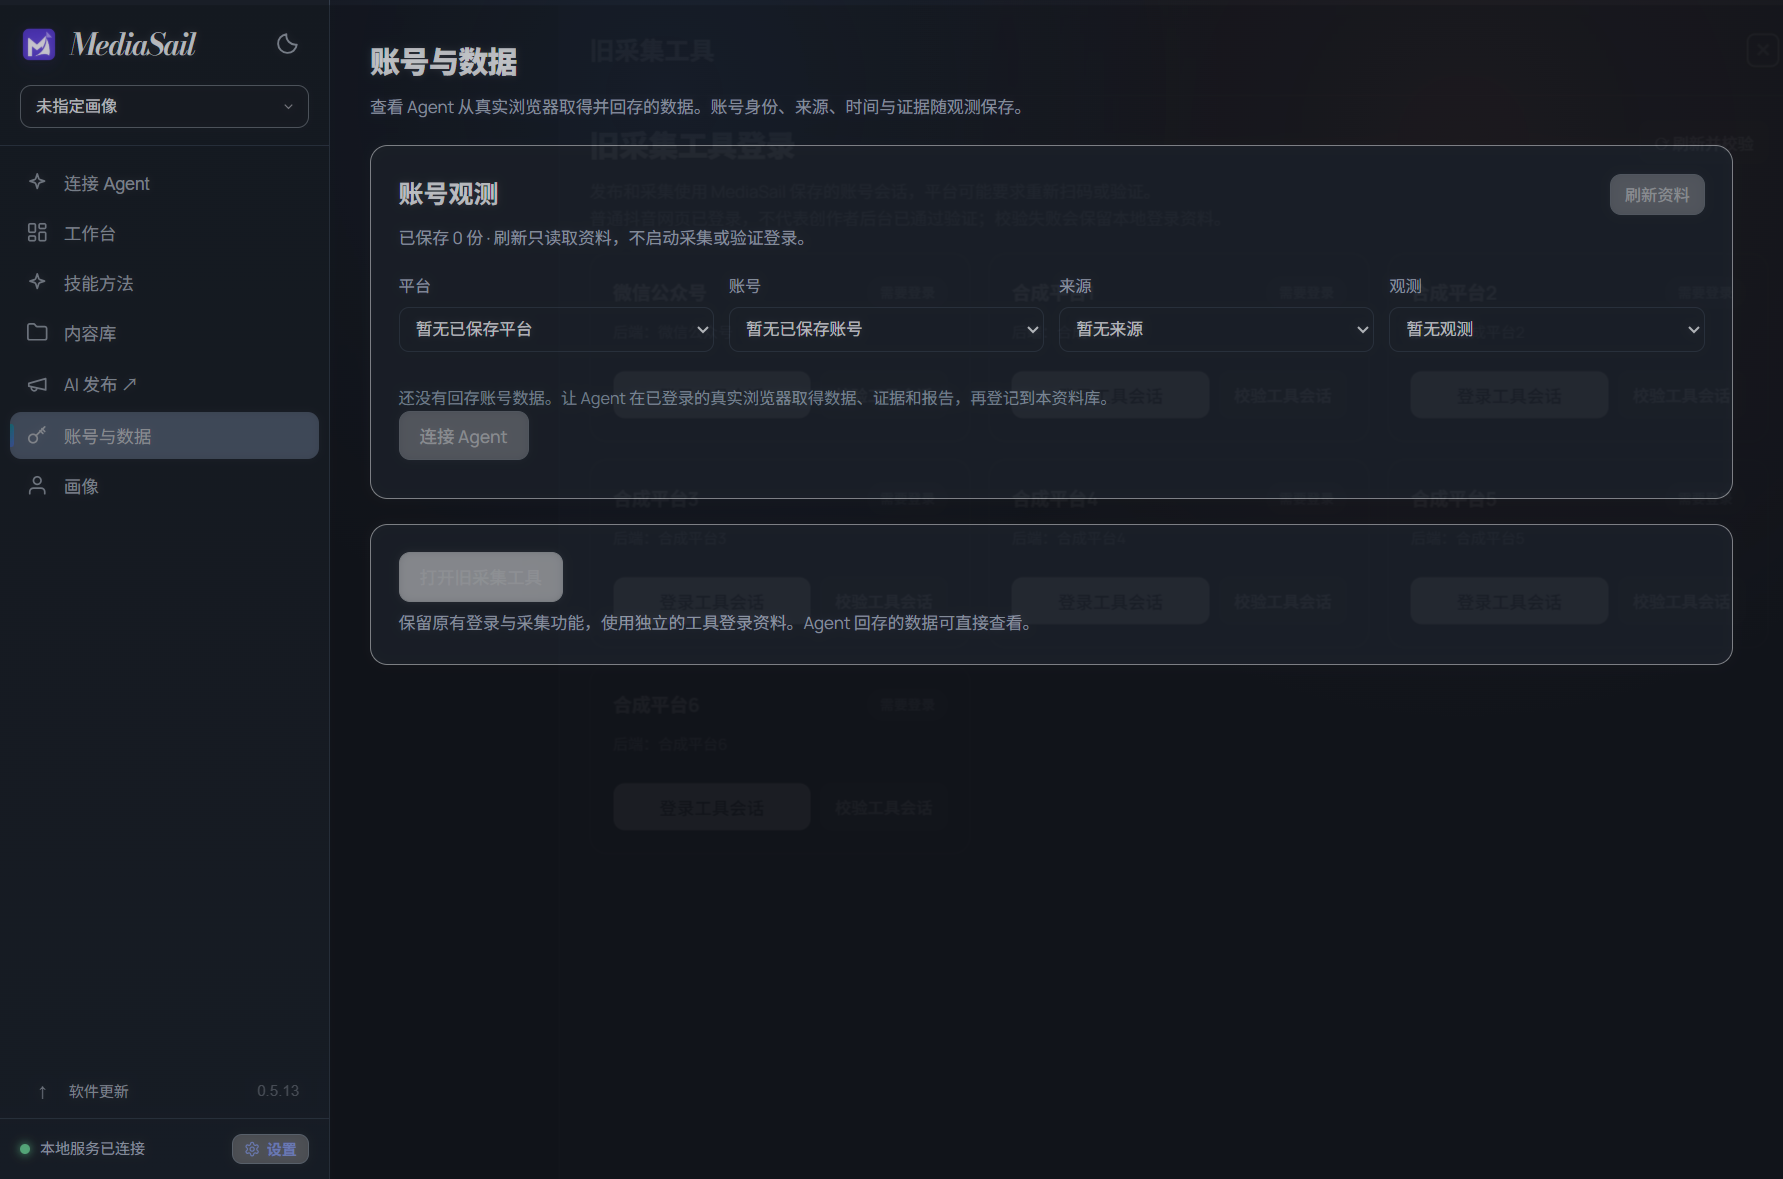
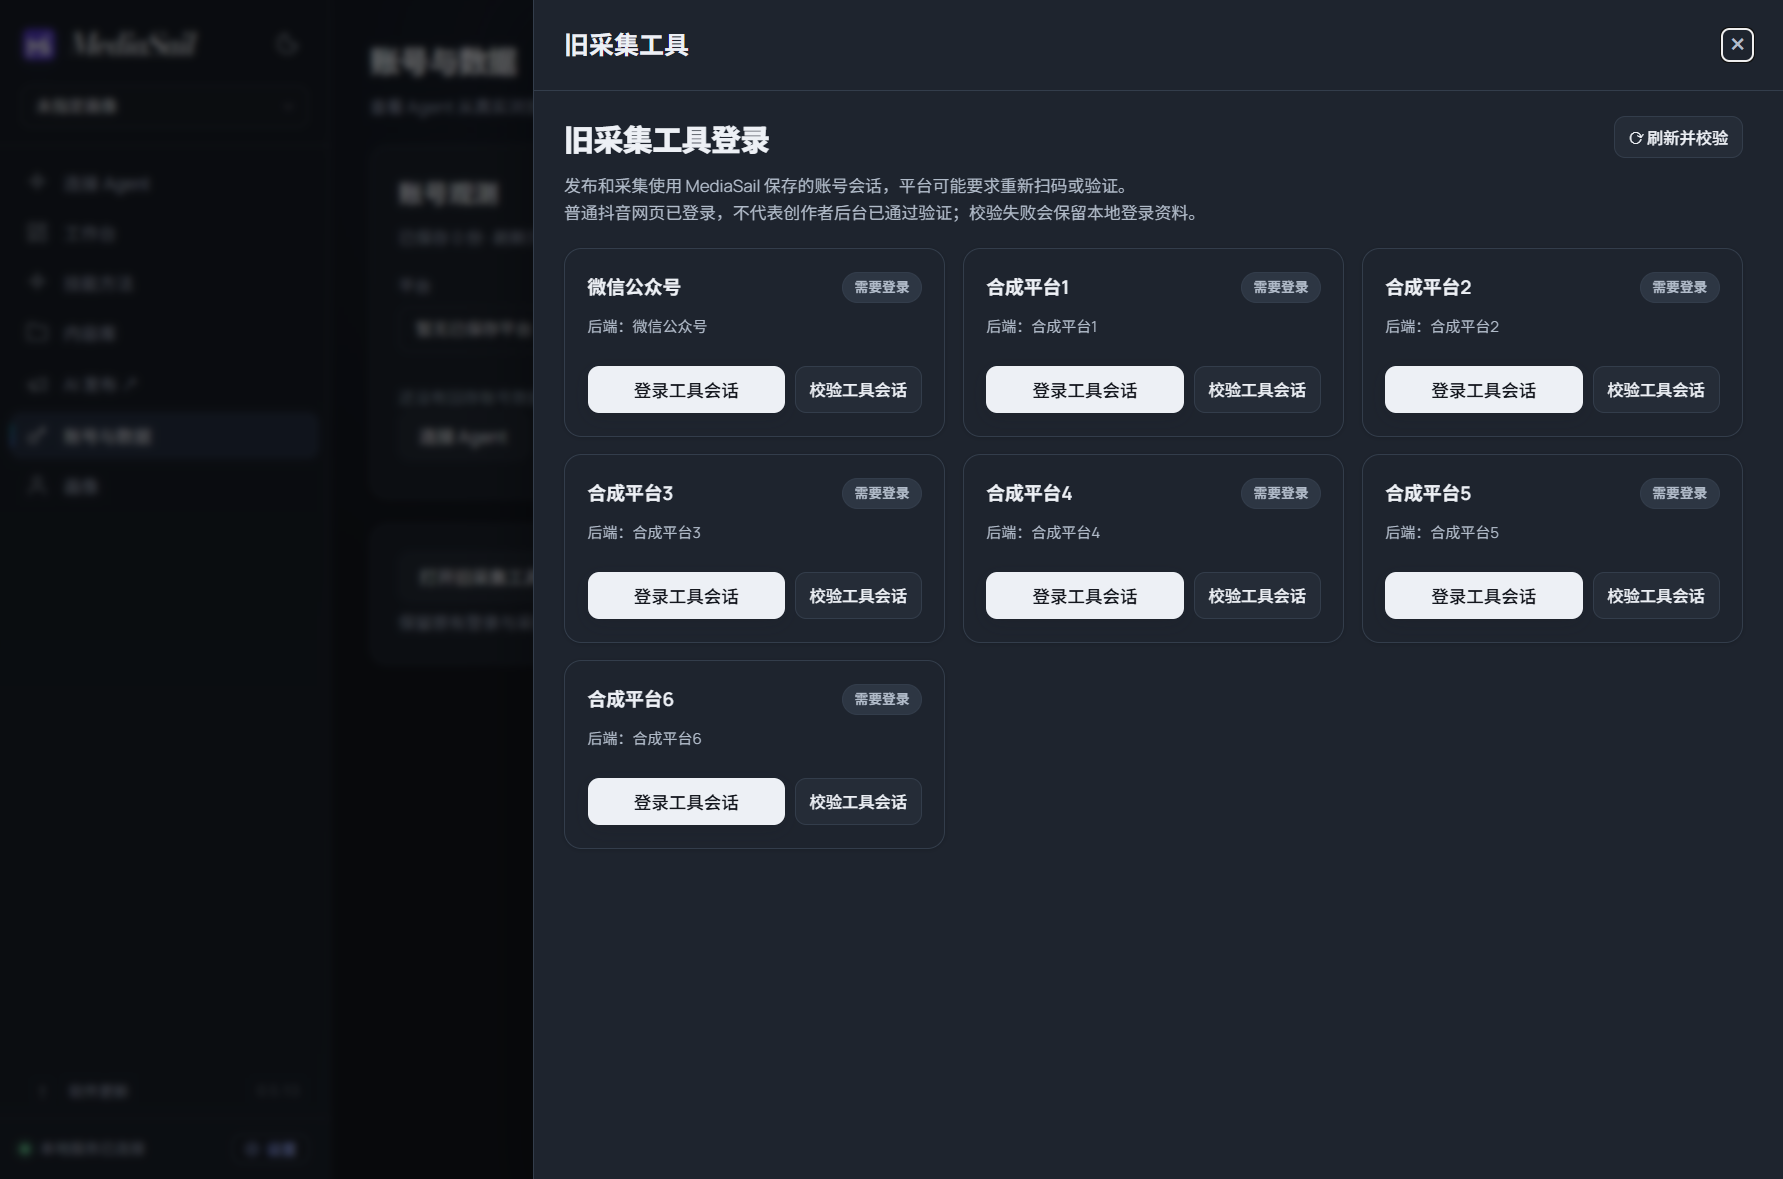
fix: open observed report files directly and clarify browser recovery guidance

diff --git a/agent-skill/mediasail/references/account-observations.md b/agent-skill/mediasail/references/account-observations.md
@@ -1,12 +1,14 @@
 # 账号观测：登记、查询与回存
 
-用于已经从真实浏览器、已有工具或可靠材料取得数据，想让 MediaSail 工作台读取的任务。原生采集接口仍是可选的联网动作；本页接口只操作本地观测。
+用于已经从真实浏览器、已有工具或可靠材料取得数据，想让 MediaSail 工作台读取的任务。旧采集工具接口仍是可选的联网动作；本页接口只操作本地观测。
 
 ## 记录的位置和含义
 
 当前工作区 `outputs/_analytics/observations/<observationId>.json` 每条一份记录。`GET /api/account-observations` 可用 `platform`、`accountId`、`source` 查询；`GET /api/account-observations/{observation_id}` 读取完整记录。`fetched_at` 是实际取得时间的 Unix 秒，`importedAt` 是登记时间，晚导入的旧材料不会成为最新取得结果。
 
 输入至少提供 `platform`、实际业务 `source` 和 `fetched_at`。`accountId`、`profile` 可以未知；昵称不能代替稳定账号。数值缺失为 null，确实为零则保存 0；粉丝指数单独用 followerIndex。保留原 `metrics`、`notes`、`collection` 结构，后者的缺项、问题和范围按实际取得情况填写。来源以具体页面或业务口径区分，例如 douyin-creator-home。
+
+`notes` 指作品列表，不是文字备注。每项为作品对象，例如 `{"title":"示例作品","url":"https://example.invalid/work/1","stat":"播放 12"}`；title、url、cover、stat 若提供需为文字。未读取作品时用 `notes: []`。普通采集说明可放 `extensions.acquisitionNotes` 字符串列表，缺项和异常放 collection；不要为备注编造作品。422 会指出无效字段，保留输入、修正后只补保存即可。
 
 其他业务字段（如顶层 views）会保存在 `extensions` 并在回执 warnings 中列出，仍参与编号哈希和同编号冲突核对。可直接把扩展放在 extensions；同名扩展值矛盾时拒绝保存，不替你选择。页面概览只展示约定字段，其他指标需要展示时放入带 label/value/口径的 metrics。根 producer 记录为 external-agent；另行提交的工具来源保留在 extensions.producer，不作为浏览器登录成功声明。导入时间、哈希与增长结果由软件计算。
 

diff --git a/agent-skill/mediasail/references/browser-collaboration.md b/agent-skill/mediasail/references/browser-collaboration.md
@@ -25,6 +25,8 @@ if (!$connection.ok) { throw $connection.error }
 
 `disconnect` 只结束本任务连接，保留浏览器和登录配置。`run` 转交 BrowserSkill 原生命令，自动带本会话编号；命令参数见 `--help` 或子命令 `--help`。CLI 输出 JSON，失败退出非零。工具内的协作上下文、页面引用和动作校验按其当前回执使用：人操作后先 `cooperate sync` 阅读现场；需要 context/observation 时使用本次回执，不沿用旧页面引用。结果不明先检查现场，不重放操作。
 
+首次截图、evaluate 等动作也可能要求协作上下文；按工具回执取得最新 `context_id`、`observation_id` 后调用。`cooperation_sync_required` 且 `effect_state: none` 表示动作未执行，可以按回执的 wait/sync 入口恢复，无需另开终端或切换旧工具；这不是网站登录失败。
+
 固定组配置含本地连接信息，只供该任务使用，不放进 MD、报告或公开附件。公开发现文件不包含这些凭据。新连接从最新发现资料定位库；旧 `sessionRef` 继续属于原库，不自动改账号或资料库。
 
 连接失败返回 requestId 时，可用 `browser status --request-id '<编号>'` 查询原结果。pending/unknown 表示结果尚未确认，先核对原请求和已有窗口，不另建请求碰运气。相同 requestId 的重复 connect 复用原回执；更改目标应使用新的请求。

diff --git a/docs/SPEC-0.5.13.md b/docs/SPEC-0.5.13.md
@@ -14,6 +14,8 @@
 
 Skill 补任务入口和按需资料，保留专业知识、Agent 工具选择自由及个人 allow_implicit_invocation:false。区分专用浏览器和旧工具登录资料及核验流程；AitoEarn 按实际能力与当次授权操作，不统一写为只能用户执行；个人抖音发布偏好保持。JSON UTF-8 明确，Windows 示例中文读写一致。
 
+实际回存验收发现的报告/证据文件链接须打开内容预览，不得把文件名当目录显示为空。失效引用明确说明并停在可读取的上级目录，继续保留项目与未保存编辑保护。补齐观测 notes 的作品对象含义和工具要求协作上下文时的正常恢复说明。
+
 ## 验收及发布
 
 在未经调整的 WorkBuddy 完成 MD、连接、必要登录、只读取数、证据及观测回存和界面读回，再回归 Codex；不清原代理或改 Job 限制取得通过。按 matt 在 CLI、连接入口、HTTP、可见界面与真实安装器逐行为红绿验证，分别做 Standards/Spec 审查。覆盖重复代理键、中文空格路径、重复/超时/错误身份/端口/无服务/并发、原回执跨退出/切库/更新、未保存保护及常用窗口100/125/150%缩放。

diff --git a/docs/RELEASE-0.5.13.md b/docs/RELEASE-0.5.13.md
@@ -7,6 +7,7 @@
 - 连接有请求编号与原结果查询，重复请求复用原回执；结果不明先核对，不盲目重试。
 - 「旧采集工具」采用独立抽屉，保留主页面宽度、筛选、滚动位置和未保存编辑。
 - Skill 说明 Agent 自主准备工具与网站登录，区分接入、连接和登录状态；补齐任务入口及 UTF-8 调用示例。
+- 修复观测中的报告/证据文件链接被当成文件夹的问题，直接打开文件预览，失效链接明确提示。
 
 沿用现有资料库、账号观测、画像与内容格式。Chromium、BrowserSkill 二进制及许可版本保持 0.5.12 已核验版本；浏览器缓存新增修复后的辅助入口，不覆盖在用缓存或网站登录配置。
 
